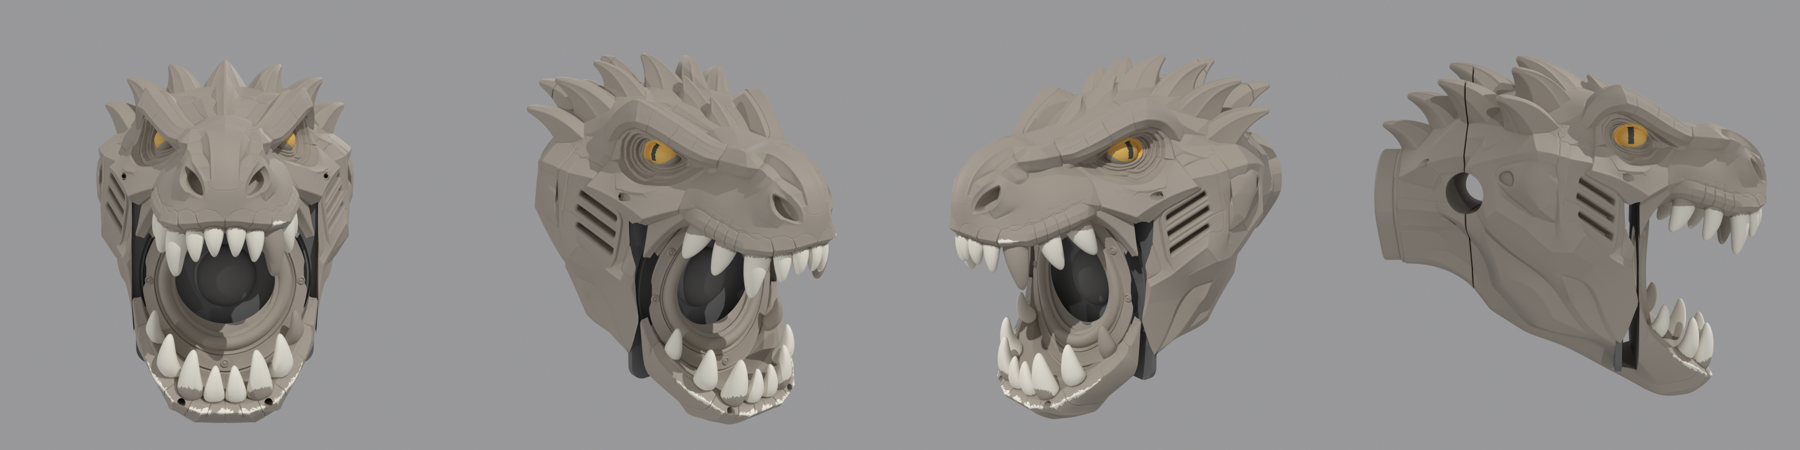
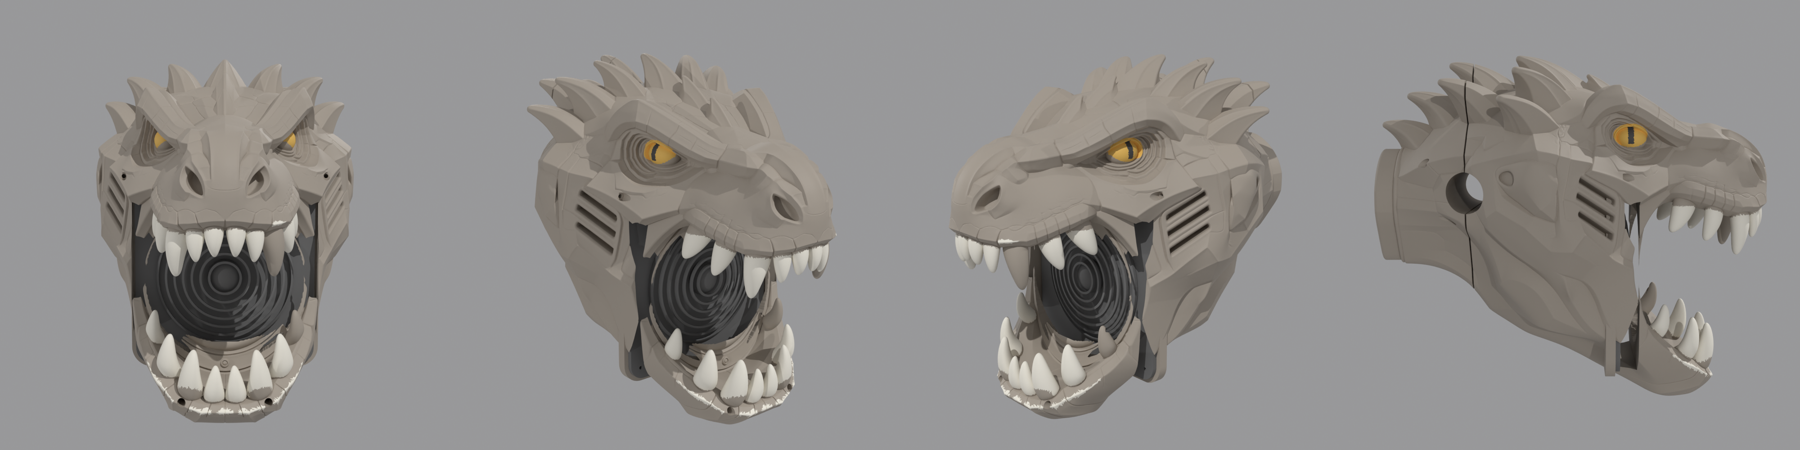
T. rex pod: open throat, Kenwood speaker model with fit check, H2C split, ASA/ABS
- 45 deg throat from the whole cone to the mouth (cone seen from the
  front: 39% -> 95%); lower jaw becomes its own part on the chin lug
- kenwood_kfc2053mrb.py: the speaker as its own model; every build checks
  it clears the box and face, the basket has room and the screws land in
  plastic; flat mounting plate with pilot holes for the lower screws
- default bed is the Bambu H2C with both nozzles (300 x 320)
- lighter print settings, ABS infill line on the shopping list

Claude-Session: https://claude.ai/code/session_018hTF7xSCFYfdSsynV6G2tx

diff --git a/cad/sculpt/trex_pod.py b/cad/sculpt/trex_pod.py
@@ -37,15 +37,17 @@ from scipy.spatial import cKDTree
 from skimage import measure
 
 HERE = os.path.dirname(os.path.abspath(__file__))
+import sys; sys.path.insert(0, HERE)
+import kenwood_kfc2053mrb as spk
 
 # ---- where things are in the AI model (its own units, after turning it to face -Z)
 AI_AXIS_Y = 0.341        # speaker centre height (from the speaker ring in the sculpt)
 AI_BAFFLE_Z = -0.06      # the real speaker's mounting face goes here
 
 # ---- real parts (mm)
-SPK_CUTOUT = 180.0       # Kenwood KFC-2053MRB cut-out
-SPK_GRILLE = 230.0       # its square grille / flange
-SPK_PROUD = 25.0         # GUESS: grille stands this far out of the face. MEASURE
+SPK_CUTOUT = spk.CUTOUT_D      # the speaker itself is kenwood_kfc2053mrb.py
+SPK_GRILLE = spk.GRILLE
+SPK_PROUD = spk.GRILLE_PROUD
 BAFFLE_T = 12.0          # solid mounting face (the speaker's screws bite in)
 WALL = 4.5               # box wall
 TUBE_D = 47.6            # cage tube (measure yours)
@@ -59,6 +61,7 @@ VENT_D = 12.2            # M12 membrane vent
 LUG_W, LUG_D = 60.0, 30.0   # chin lug half-width, depth
 DOWEL = (6.3, 12.0)      # dowel hole d, depth each side of a cut
 VOX = 1.5                # voxel size for the air space
+THROAT_R = spk.CONE_D / 2 + 17        # the throat opens up to the whole cone (+ surround) at the grille
 
 COLOURS = ["body", "teeth", "eyes", "pupils"]
 HEX = {"body": "#6B5E4F", "teeth": "#EFE6CC", "eyes": "#E08A1E", "pupils": "#111111"}
@@ -197,6 +200,78 @@ def chin_bolts(mask_t, box_t):
     return best
 
 
+def open_throat(mask, head_t, labels, tree):
+    """Cut a 45 deg funnel from the whole cone forward to the mouth, so no part
+    of the cone fires into the back of the face. The funnel follows the
+    mouth's own outline (seen from the front, looking through the teeth) and
+    keeps 2 mm clear of every tooth so the teeth stay on."""
+    mt = to_trimesh(mask)
+    lab = paint(mt, head_t, labels, tree)
+    body = mt.submesh([np.where(lab != 1)[0]], append=True)
+    z0 = -(SPK_PROUD + 4)                       # face of the grille pocket
+    g = np.arange(-THROAT_R - 3, THROAT_R + 3.01, VOX)
+    X, Y = np.meshgrid(g, g, indexing="ij")
+    o = np.c_[X.ravel(), Y.ravel(), np.full(X.size, -600.0)]
+    t = ray_first(body, o, [0, 0, 1])
+    M = (np.isnan(t) | (t - 600 >= z0 - 0.5)).reshape(X.shape)   # clear view to the pocket
+    disk = np.hypot(X, Y) <= THROAT_R
+    dist = ndimage.distance_transform_edt(~M) * VOX
+    T = float(dist[disk].max())
+    zs = np.arange(z0 + 1, z0 - T - VOX, -VOX)
+    F = np.stack([disk & (dist <= T - (z0 - z)) for z in zs], -1)
+    # keep clear of the teeth
+    teeth = mt.submesh([np.where(lab == 1)[0]], append=True)
+    if len(teeth.faces):
+        pts, _ = trimesh.sample.sample_surface_even(teeth, 200000)
+        ijk = np.round(np.c_[(pts[:, 0] - g[0]) / VOX, (pts[:, 1] - g[0]) / VOX, (zs[0] - pts[:, 2]) / VOX]).astype(int)
+        ok = (ijk >= 0).all(1) & (ijk < F.shape).all(1)
+        P = np.zeros(F.shape, bool); P[tuple(ijk[ok].T)] = True
+        F &= ~ndimage.binary_dilation(P, iterations=2)
+    f = np.pad(ndimage.gaussian_filter(F.astype(float), 0.6), 1)
+    v, fc, _, _ = measure.marching_cubes(f, 0.5)
+    v = (v - 1) * VOX
+    v = np.c_[g[0] + v[:, 0], g[0] + v[:, 1], zs[0] - v[:, 2]]
+    cut = trimesh.Trimesh(v, fc, process=True)
+    if cut.volume < 0: cut.invert()
+    out = mask - to_manifold(cut)
+    keep = [p for p in out.decompose() if p.volume() > 1e5]      # drop crumbs, keep the jaw
+    return mf.Manifold.batch_boolean(keep, mf.OpType.Add) if len(keep) > 1 else keep[0], round(T, 1)
+
+
+def fit_check(parts, head_t, labels, tree):
+    """Put the real speaker model in and check it fits. Returns a dict; any
+    'ok': False is a problem."""
+    sp = spk.build()
+    out = {}
+    box, mask = parts["box"], parts["mask"]
+    hit = (sp ^ box).volume() / 1e3
+    out["speaker_vs_box_cm3"] = round(hit, 2)
+    hitm = sum((sp ^ parts[k]).volume() for k in parts if k not in ("box",)) / 1e3
+    out["speaker_vs_face_cm3"] = round(hitm, 2)
+    box_t = to_trimesh(box)
+    bt = to_trimesh(spk.behind())
+    pts, _ = trimesh.sample.sample_surface_even(bt, 3000)
+    pts = pts[pts[:, 2] > BAFFLE_T + 1]
+    d = np.abs(trimesh.proximity.signed_distance(box_t, pts))
+    out["basket_clearance_mm"] = round(float(d.min()), 1)
+    hole_ok = [bool(all(box_t.contains([[x + dx, y + dy, BAFFLE_T / 2]])[0] for dx, dy in [(4, 0), (-4, 0), (0, 4), (0, -4)]))
+               for x, y in spk.holes()]
+    out["screw_holes_in_plastic"] = hole_ok
+    # how much of the cone can see straight out of the mouth (teeth count as clear)
+    mt = to_trimesh(mask)
+    lab = paint(mt, head_t, labels, tree)
+    body = mt.submesh([np.where(lab != 1)[0]], append=True)
+    g = np.arange(-spk.CONE_D / 2, spk.CONE_D / 2 + 0.1, 3.0)
+    X, Y = np.meshgrid(g, g); sel = np.hypot(X, Y) <= spk.CONE_D / 2
+    o = np.c_[X[sel], Y[sel], np.full(sel.sum(), -SPK_PROUD - 1.0)]
+    t = ray_first(body, o, [0, 0, -1])
+    out["cone_open_pct"] = round(100 * float(np.isnan(t).mean()), 0)
+    tt = ray_first(mt, o, [0, 0, -1])
+    out["cone_open_pct_counting_teeth"] = round(100 * float(np.isnan(tt).mean()), 0)
+    out["ok"] = bool(hit < 0.05 and hitm < 0.05 and out["basket_clearance_mm"] >= 3 and all(hole_ok))
+    return out
+
+
 # ----------------------------------------------------------------- build
 def build(scale):
     head_t, labels = load_head(scale)
@@ -233,8 +308,16 @@ def build(scale):
     lug = mf.Manifold.cube([2 * LUG_W, 200, LUG_D + 0.5]).translate([-LUG_W, -SPK_GRILLE / 2 - 3 - 200 - 2, -LUG_D])
     box = box + (front ^ lug)
     mask = largest(mask - lug)
+    tree = cKDTree(head_t.triangles_center)
+    mask, info["throat_depth_mm"] = open_throat(mask, head_t, labels, tree)
 
+    # the head narrows at the bottom, so the speaker's lower screws would miss
+    # the box: a flat mounting plate the size of the grille closes that gap
+    plate = rounded_square(SPK_GRILLE + 12, spk.GRILLE_R + 6, 0, BAFFLE_T)
+    box = box + plate
     box = box - cav - cyl(SPK_CUTOUT / 2, 4 * BAFFLE_T, "z")
+    for x, y in spk.holes():                    # pilot holes for the speaker's screws
+        box = box - cyl(spk.PILOT_D / 2, 2 * (BAFFLE_T - 2), "z").translate([x, y, 0])
     seat = seat - bore
     cover = cover - bore
     # dowels to line the seat block up on the box (glue + seal this joint)
@@ -275,7 +358,12 @@ def build(scale):
                   - cyl(13, 50, "y", False).translate([x, yb_ - 49, z])
     info["under"] = "PG7 gland at x=+30, M12 vent at x=-30, both 60 mm behind the face"
 
-    parts = {"mask": largest(mask), "box": largest(box), "seat": largest(seat), "cover": largest(cover)}
+    # the open throat leaves the lower jaw as its own piece (it bolts to the chin lug)
+    mp = sorted(mask.decompose(), key=lambda p: -p.volume())
+    parts = {"mask": mp[0]}
+    if len(mp) > 1 and mp[1].volume() > 1e5: parts["jaw"] = mp[1]
+    parts.update(box=largest(box), seat=largest(seat), cover=largest(cover))
+    info["fit"] = fit_check(parts, head_t, labels, tree)
     return head_t, labels, parts, cav_t, info
 
 
@@ -411,7 +499,8 @@ def orient_for_print(m, name):
 def main(argv=None):
     ap = argparse.ArgumentParser()
     ap.add_argument("--scale", type=float, default=480)
-    ap.add_argument("--bed", type=float, nargs=3, default=[256, 256, 256])
+    ap.add_argument("--bed", type=float, nargs=3, default=[300, 320, 320],
+                    help="default: Bambu H2C printing with both nozzles (300 x 320 x 325)")
     ap.add_argument("--out", default=os.path.join(HERE, "out"))
     ap.add_argument("--no-split", action="store_true")
     a = ap.parse_args(argv)

diff --git a/cad/sculpt/kenwood_kfc2053mrb.py b/cad/sculpt/kenwood_kfc2053mrb.py
@@ -1,0 +1,74 @@
+"""Kenwood KFC-2053MRB 8" marine coaxial, as its own model, for checking the
+fit and for renders with or without the speaker in.
+
+Real numbers (kenwood.com/usa/car/marine/kfc-2053mrb/spec.html, see
+docs/speaker-pods.md): 180 mm cut-out, 86 mm mounting depth, 230 mm square
+grille, 90 mm ferrite magnet.
+
+GUESSES until Sam measures his (change them here, everything follows):
+  GRILLE_PROUD  how far the grille stands out in front of the mounting face
+  HOLE_XY       the 4 screw holes (corners of the square grille)
+  CONE_D        cone + surround diameter
+  BASKET_D      basket diameter just behind the mounting face (must pass the cut-out)
+
+Coordinates: mounting face at Z=0, the speaker fires towards -Z, X right, Y up.
+
+    python cad/sculpt/kenwood_kfc2053mrb.py out.stl
+"""
+import sys
+import numpy as np
+import manifold3d as mf
+
+CUTOUT_D = 180.0
+DEPTH = 86.0
+GRILLE = 230.0
+GRILLE_R = 20.0          # GUESS corner radius of the grille
+GRILLE_PROUD = 25.0      # GUESS
+MAGNET_D = 90.0
+MAGNET_H = 20.0          # GUESS
+BASKET_D = 176.0         # GUESS, a little under the cut-out
+CONE_D = 166.0           # GUESS
+HOLE_XY = 100.0          # GUESS: holes at (+-100, +-100)
+HOLE_D = 4.5             # screw clearance in the grille
+PILOT_D = 3.5            # pilot hole in the box for the self-tappers
+
+
+def _rsq(w, r, h):
+    cs = mf.CrossSection.square([w - 2 * r, w - 2 * r], True).offset(r, mf.JoinType.Round, 2, 96)
+    return mf.Manifold.extrude(cs, h)
+
+
+def holes():
+    return [(sx * HOLE_XY, sy * HOLE_XY) for sx in (-1, 1) for sy in (-1, 1)]
+
+
+def build():
+    """The whole speaker as one solid (good enough for fit and renders)."""
+    # grille: square plate at the mounting face, domed bars out to GRILLE_PROUD
+    flange = _rsq(GRILLE, GRILLE_R, 6).translate([0, 0, -6])
+    dome = mf.Manifold.sphere(1, 96).scale([CONE_D / 2 + 8, CONE_D / 2 + 8, GRILLE_PROUD - 6]).translate([0, 0, -6])
+    dome = dome.trim_by_plane([0, 0, -1], 6)            # front half only
+    shell = dome - dome.scale([0.97, 0.97, 0.85])
+    bars = mf.Manifold()
+    for r in np.arange(20, CONE_D / 2 + 8, 11):
+        ring = mf.Manifold.cylinder(GRILLE_PROUD + 2, r + 1.5, r + 1.5, 96, True) - mf.Manifold.cylinder(GRILLE_PROUD + 4, r - 1.5, r - 1.5, 96, True)
+        bars = bars + ring
+    grille = flange + (shell ^ bars.translate([0, 0, -GRILLE_PROUD / 2]))
+    grille = grille + mf.Manifold.sphere(22, 64).scale([1, 1, 0.6]).translate([0, 0, -10])   # tweeter
+    for x, y in holes():
+        grille = grille - mf.Manifold.cylinder(20, HOLE_D / 2, HOLE_D / 2, 32, True).translate([x, y, -3])
+    # behind the face: basket tapering to the magnet
+    basket = mf.Manifold.cylinder(DEPTH - MAGNET_H, BASKET_D / 2, MAGNET_D / 2 + 5, 96, False)
+    magnet = mf.Manifold.cylinder(MAGNET_H, MAGNET_D / 2, MAGNET_D / 2, 96, False).translate([0, 0, DEPTH - MAGNET_H])
+    return grille + basket + magnet
+
+
+def behind():
+    """Only the part that goes into the box (for the clearance check)."""
+    return build().trim_by_plane([0, 0, 1], 0.5)
+
+
+if __name__ == "__main__":
+    import trimesh
+    g = build().to_mesh()
+    trimesh.Trimesh(np.asarray(g.vert_properties)[:, :3], np.asarray(g.tri_verts)).export(sys.argv[1] if len(sys.argv) > 1 else "kenwood_kfc2053mrb.stl")

diff --git a/cad/sculpt/README.md b/cad/sculpt/README.md
@@ -1,7 +1,9 @@
 # Sculpted T. rex speaker pod (concept 4)
 
-![assembled](../img/trex_pod_assembled.png)
-![exploded](../img/trex_pod_exploded.png)
+With the speaker in:
+![with speaker](../img/trex_pod_assembled.png)
+Without the speaker, and pulled apart:
+![without speaker](../img/trex_pod_exploded.png)
 
 The head is a real sculpt, not CAD shapes: four views of concept 4 were made in
 Higgsfield, then Hunyuan3D turned them into a watertight model
@@ -10,8 +12,8 @@ speaker pod for the Kenwood KFC-2053MRB 8".
 
 ```
 pip install numpy scipy scikit-image trimesh manifold3d rtree
-python cad/sculpt/trex_pod.py                     # 256 mm bed (X1, P1, A1)
-python cad/sculpt/trex_pod.py --bed 350 320 325   # H2D
+python cad/sculpt/trex_pod.py                     # Bambu H2C, both nozzles (300 x 320)
+python cad/sculpt/trex_pod.py --bed 256 256 256   # X1, P1, A1
 python cad/sculpt/trex_pod.py --scale 450         # smaller head
 ```
 
@@ -29,8 +31,9 @@ the mouth.
 
 | Part | What it is | Prints |
 |---|---|---|
-| mask | Snout, teeth, eyes, jaw. Everything in front of the speaker. Goes on last, over the speaker | Flat back on the bed, snout up. Supports inside the grille pocket |
-| box | Sealed box: flat front with the 180 mm hole, chin lug, gland and vent underneath | Front face on the bed. Open at the back, so any supports come out |
+| mask | Snout, upper teeth, eyes. Goes on last, over the speaker | Flat back on the bed, snout up |
+| jaw | Lower jaw and teeth. Bolts to the chin lug | Flat back on the bed |
+| box | Sealed box: flat mounting plate with the 180 mm hole and 4 pilot holes, chin lug, gland and vent underneath | Front face on the bed. Open at the back, so any supports come out |
 | seat | Solid block that closes the back of the box and holds the cage tube | Flat face down |
 | cover | Back of the skull. Clamps the tube with 4 hidden M6 bolts | Flat face down |
 
@@ -40,6 +43,26 @@ rubber strip, between the seat and the cover.
 Air inside the box: **10.8 L** (`pod.gross_l` in `config/speaker_pods.yaml`;
 the Pi's bass EQ is worked out from it).
 
+## The speaker model and the fit check
+
+`kenwood_kfc2053mrb.py` is the speaker on its own (grille, basket, magnet,
+screw holes). `trex_pod.py` drops it in and checks, every build, that it
+doesn't touch the box or face, the basket has room, the 4 screws land in
+plastic and how much of the cone can see straight out of the mouth. The
+answer is in `info.json` under `fit` (now: 9.5 mm round the basket, all 4
+screws in plastic, 95% of the cone sees out, 86% counting the teeth).
+
+Kenwood publish the cut-out, depth, grille and magnet. The grille height,
+screw spacing and cone size are guesses: measure yours and change them at
+the top of `kenwood_kfc2053mrb.py`.
+
+## Sound
+
+The throat is cut right through from the whole cone to the mouth at
+45 degrees, so the face doesn't choke the speaker. The mouth is still deep
+in front of the grille, which can add a small bump somewhere around 600 to
+900 Hz. Measure it with a phone mic once it's in and notch it in the Pi EQ.
+
 ## Colours (AMS)
 
 The 3MFs are painted: filament 1 body, 2 teeth (bone), 3 eyes (amber),
@@ -48,9 +71,9 @@ and slice. The teeth and eyes were picked out of the sculpt once by
 `tools/label_*.py` (shape plus the colours in the concept views) and saved in
 `trex_head_labels.npz`.
 
-## Pieces (256 mm bed)
+## Pieces (H2C, 300 x 320 bed)
 
-mask 5, box 4, seat 4, cover 2. Two of the mask pieces are thin cheek strips.
+mask 2, jaw 1, box 4, seat 4, cover 1.
 Pieces join on flat upright cuts with 6 mm dowel holes (use 6 mm rod or
 cut-off bolts) where there's room. Glue with ASA cement or epoxy.
 
@@ -64,16 +87,20 @@ loses the bass.
 - 4x M5 heat-set insert: 2x M5x16 at the brow, 2x M5x35 through the chin
   into the chin lug. Counterbores from the front, plug them after
 - PG7 gland (speaker wire) and M12 vent, both underneath
-- 4 speaker screws into the 12 mm front of the box
+- 4 speaker screws into the 12 mm mounting plate (3.5 mm pilot holes)
 - 1.5 mm rubber strip round the cage tube
 
-## Filament
+## Filament and slicer settings
 
-Roughly 3.4 kg of ASA per head at 3 walls and 15% infill (the slicer will
-give the real number), under 100 g of each colour.
+- 3 walls everywhere. Box and seat: 15% gyroid infill. Mask, jaw and
+  cover: 5% lightning infill (it only holds up the top skins).
+- ASA for the walls and colours, ABS for infill: in Bambu Studio, Others >
+  Filament for features > Sparse infill = the ABS slot. Print the seat
+  blocks all in ABS, they're hidden.
+- Roughly 2.7 kg per head: 1.8 kg ASA, 0.95 kg ABS, under 100 g of each
+  colour. The slicer will give the real number.
 
 ## Still guesses
 
-- `SPK_PROUD` (how far the grille stands out of the box face): 25 mm.
-  Measure it, the grille pocket depends on it.
+- The speaker's grille height, screw spacing and cone size (see above).
 - `TUBE_D`: 47.6 mm. Measure your cage tube.

diff --git a/docs/pbtech-order.md b/docs/pbtech-order.md
@@ -102,7 +102,8 @@ changing it. Spreadsheet copy: [`pbtech-order.csv`](pbtech-order.csv). Why each 
 | UV-black cable ties + adhesive P-clips | 1 | 20.00 | 20.00 | Estimate |  |
 | Dielectric grease, small tube | 1 | 12.00 | 12.00 | Estimate | Trailer plugs and outdoor connectors |
 | 2mm closed-cell foam tape, 1m+ | 1 | 10.00 | 10.00 | Estimate | Bezel to panel |
-| ASA filament 1.75mm 1kg (dash panel, hood, back plate, speaker pods and their T. rex heads) | 11 | 45.00 | 495.00 | Estimate | Stone grey or olive. The two sculpted T. rex heads take about 3.4 kg each at 3 walls and 15% infill (cad/sculpt/README.md). Leave out what you already have |
+| ASA filament 1.75mm 1kg (dash panel, hood, back plate, speaker pods and their T. rex heads) | 8 | 45.00 | 360.00 | Estimate | Stone grey or olive. The outside of the two sculpted T. rex heads takes about 1.8 kg each; their infill is ABS (next line). See cad/sculpt/README.md. Leave out what you already have |
+| ABS filament 1.75mm 1kg, any colour (infill and the hidden seat blocks in the T. rex heads) | 2 | 35.00 | 70.00 | Estimate | About 0.95 kg per head. Set as the sparse infill filament in Bambu Studio |
 | ASA filament 1.75mm, small spools: bone/off-white, amber/orange, black (T. rex teeth, eyes, pupils) | 3 | 45.00 | 135.00 | Estimate | Under 100 g of each ends up in the heads, the AMS purges the rest. Leave out what you already have |
 | Polyester fibre fill (speaker wadding or pillow stuffing), 200 g | 1 | 12.00 | 12.00 | Estimate | About 70 g per speaker pod, loose. Not foam (it holds water) |
 | PETG filament 1.75mm 1kg (boxes, liner) | 1 | 35.00 | 35.00 | Estimate |  |
@@ -126,7 +127,7 @@ changing it. Spreadsheet copy: [`pbtech-order.csv`](pbtech-order.csv). Why each 
 | Tinned lugs for 6 mm², M8 hole | 6 | 2.00 | 12.00 | Estimate; counted from config/wiring.yaml | 2 spare |
 | Tinned lugs for 10 mm², M8 hole | 10 | 2.00 | 20.00 | Estimate; counted from config/wiring.yaml | 2 spare |
 | Tinned lugs for 35 mm², M8 hole | 4 | 2.00 | 8.00 | Estimate; counted from config/wiring.yaml | 2 spare |
-| **Total** | | | **1,990.50** | | |
+| **Total** | | | **1,925.50** | | |
 
 ### Separate pickup
 
@@ -143,9 +144,9 @@ changing it. Spreadsheet copy: [`pbtech-order.csv`](pbtech-order.csv). Why each 
 | AliExpress (one order, 2 to 4 weeks) | 722.01 |
 | Core Electronics (AU, online) | 246.68 |
 | Gogo:Tronics and element14 (NZ, online) | 7.43 |
-| Local: Jaycar, Narva stockist, Repco, auto electrical | 1,990.50 |
+| Local: Jaycar, Narva stockist, Repco, auto electrical | 1,925.50 |
 | Separate pickup | 115.00 |
-| **Everything** | **3,704.83** |
+| **Everything** | **3,639.83** |
 
 ### Already got (not in the totals)
 

diff --git a/docs/speaker-pods.md b/docs/speaker-pods.md
@@ -111,7 +111,7 @@ If you swap speakers or change the pod size, update the YAML and rerun `--write`
 
 The pod you print is the sculpted T. rex head in `cad/sculpt/` (concept 4).
 The speaker sits in its open mouth, the head's back skull clamps the cage
-tube, and the sealed box inside holds 10.8 L of air. How to print it, the
+tube, and the sealed box inside holds 10.8 L of air. The real speaker is modelled in `cad/sculpt/kenwood_kfc2053mrb.py` and every build checks it fits. How to print it, the
 parts, colours and bolts: [cad/sculpt/README.md](../cad/sculpt/README.md).
 
 The plain OpenSCAD pod below (and its faceted head) still builds, if you
